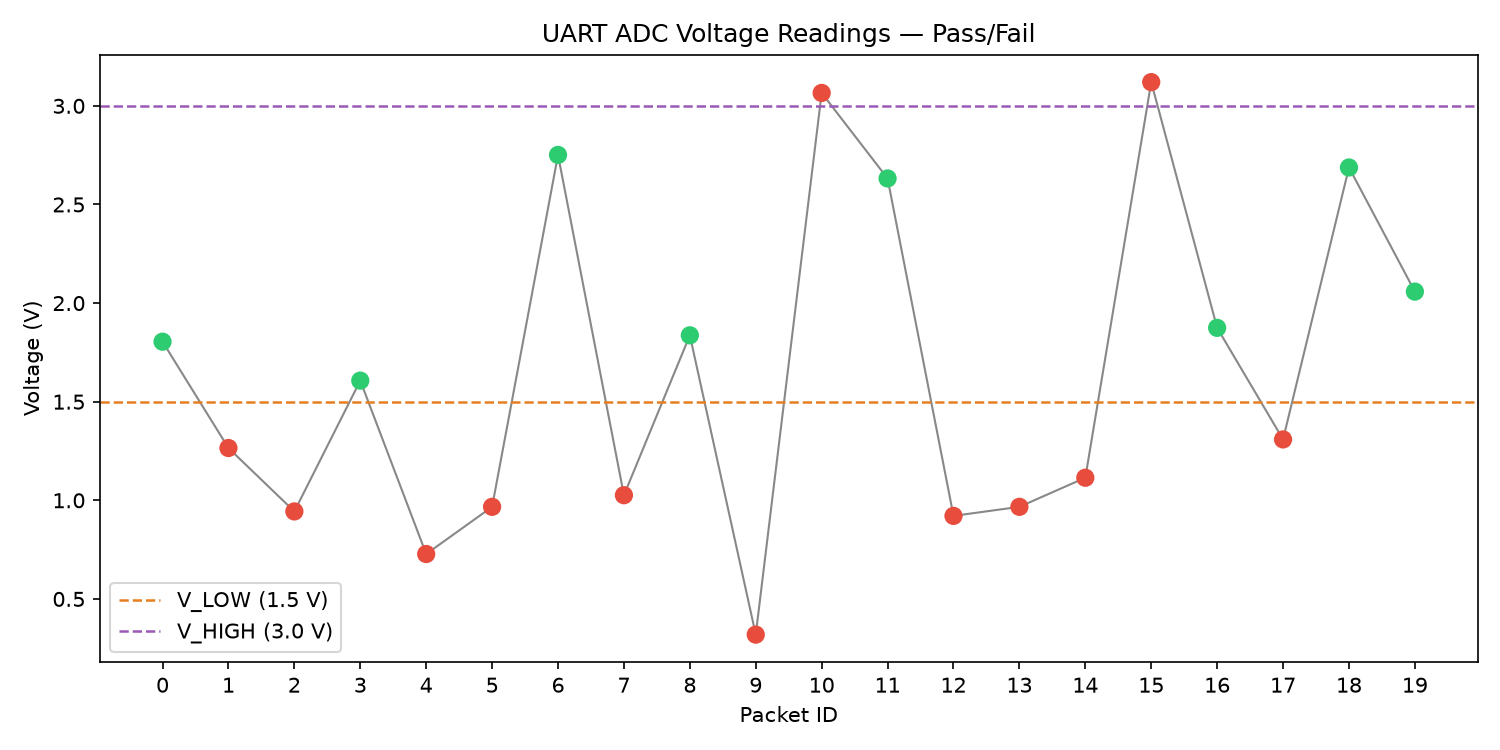
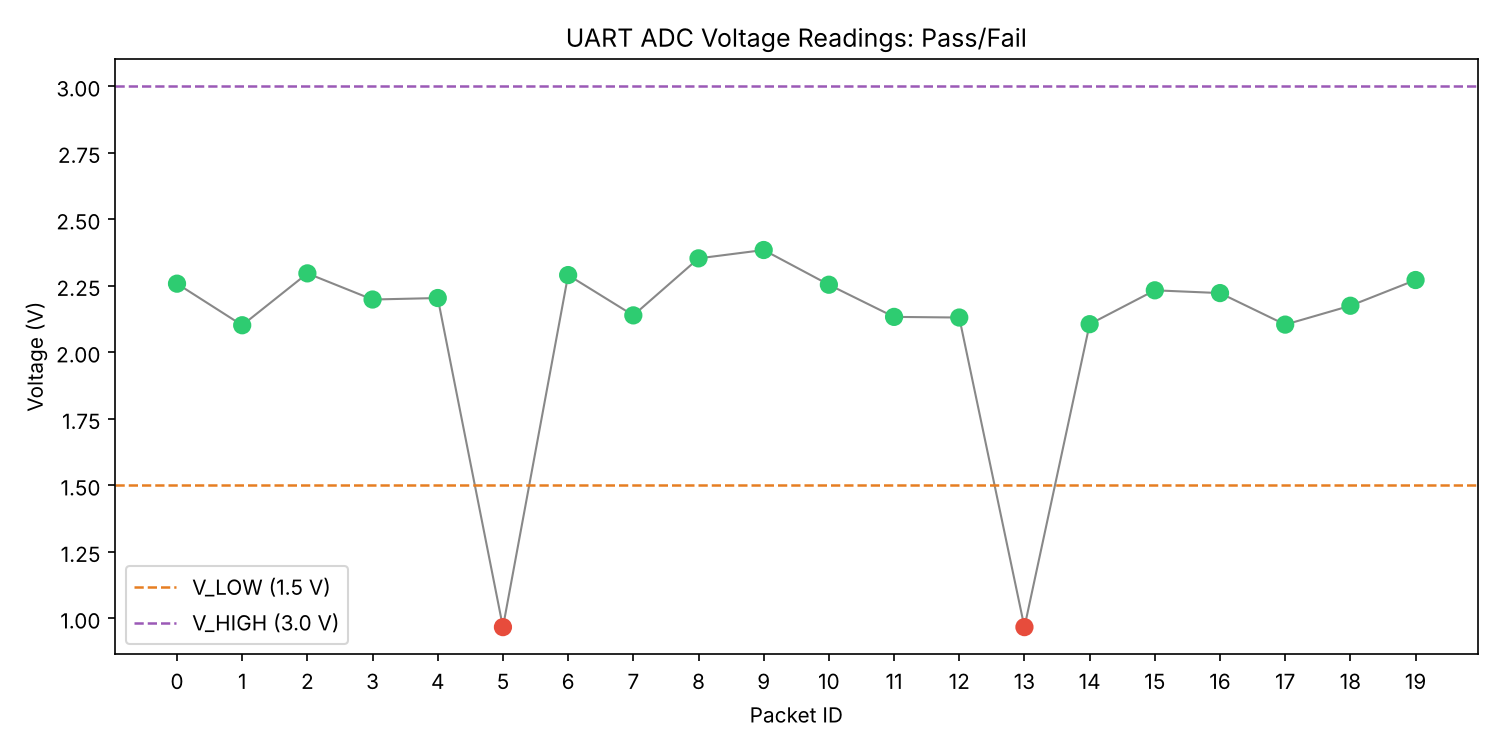
Add README, build step, shared limits, and sturdier logger
- run_test.sh compiles device_sim.c, checks for socat, uses venv only if
  present, waits for the ports, cleans up socat on exit, runs the plot
- device_sim.c sends a nominal 2.25 V reading with noise so only the
  injected faults (packets 5 and 13) fail; checks write() return value
- host_logger.py skips malformed lines, reports missing packet IDs,
  handles zero packets, shortens the idle timeout to 3 s
- Move V_LOW/V_HIGH into limits.py so the logger and plot share them
- Add README, requirements.txt, .gitignore, and sample results.csv

Claude-Session: https://claude.ai/code/session_01CxT4HXFqMADgGH9fB3zzfL

diff --git a/host_logger.py b/host_logger.py
@@ -1,34 +1,53 @@
-import serial
 import csv
+
 import numpy as np
-from datetime import datetime
+import serial
+
+from limits import V_LOW, V_HIGH
 
 PORT = "/tmp/ttyV1"
+# Required by pyserial, but a virtual PTY pair has no real line rate,
+# so this value does not change the timing of the test.
 BAUD = 9600
-TIMEOUT = 15
-V_LOW = 1.5
-V_HIGH = 3.0
+# Stop after this many seconds with no new data
+TIMEOUT = 3
 OUT_FILE = "results.csv"
 
+
+def parse_packet(line):
+	"""Parse 'PKT:05,ADC:1200,VOLT:0.9670' into (pkt_id, adc_raw, voltage).
+	Returns None if the line is malformed."""
+	parts = line.split(",")
+	if len(parts) != 3:
+		return None
+	try:
+		pkt_id = int(parts[0].split(":")[1])
+		adc_raw = int(parts[1].split(":")[1])
+		voltage = float(parts[2].split(":")[1])
+	except (IndexError, ValueError):
+		return None
+	return pkt_id, adc_raw, voltage
+
+
 readings = []
+bad_lines = 0
 
 print(f"Connecting to {PORT}...")
 ser = serial.Serial(PORT, BAUD, timeout=TIMEOUT)
 print("Connected. Waiting for data...\n")
 
 while True:
-	line = ser.readline().decode("utf-8").strip()
+	line = ser.readline().decode("utf-8", errors="replace").strip()
 	if not line:
 		break
 
-	parts = line.split(",")
-	if len(parts) != 3:
+	packet = parse_packet(line)
+	if packet is None:
+		bad_lines += 1
+		print(f"Skipped malformed line: {line!r}")
 		continue
 
-	pkt_id = int(parts[0].split(":")[1])
-	adc_raw = int(parts[1].split(":")[1])
-	voltage = float(parts[2].split(":")[1])
-
+	pkt_id, adc_raw, voltage = packet
 	result = "PASS" if V_LOW <= voltage <= V_HIGH else "FAIL"
 
 	readings.append({
@@ -42,20 +61,31 @@ while True:
 
 ser.close()
 
+if not readings:
+	print("No packets received. Check that device_sim ran and the ports match.")
+	raise SystemExit(1)
+
 voltages = np.array([r["voltage"] for r in readings])
 failures = [r for r in readings if r["result"] == "FAIL"]
 
+# Packet IDs should run 0, 1, 2, ... with no gaps
+expected_ids = set(range(max(r["pkt_id"] for r in readings) + 1))
+missing = sorted(expected_ids - {r["pkt_id"] for r in readings})
+
 print(f"\n--- Summary ---")
+print(f"Limits        : {V_LOW} to {V_HIGH} V")
 print(f"Total packets : {len(readings)}")
 print(f"Pass          : {len(readings) - len(failures)}")
 print(f"Fail          : {len(failures)}")
+print(f"Malformed     : {bad_lines}")
+print(f"Missing IDs   : {missing if missing else 'none'}")
 print(f"Min voltage   : {np.min(voltages):.4f} V")
 print(f"Max voltage   : {np.max(voltages):.4f} V")
 print(f"Mean voltage  : {np.mean(voltages):.4f} V")
 print(f"Std dev       : {np.std(voltages):.4f} V")
 
 with open(OUT_FILE, "w", newline="") as f:
-	writer = csv.writer(f)
+	writer = csv.writer(f, lineterminator="\n")
 	writer.writerow(["pkt_id", "adc_raw", "voltage_V", "result"])
 	for r in readings:
 		writer.writerow([r["pkt_id"], r["adc_raw"], r["voltage"], r["result"]])

diff --git a/device_sim.c b/device_sim.c
@@ -7,12 +7,26 @@
 
 #define PORT "/tmp/ttyV0"
 #define NUM_PACKETS 20
-#define BAUD_DELAY 100000
+#define PACKET_INTERVAL_US 100000  /* 100 ms between packets */
+
+#define ADC_MAX 4095
+#define VREF 3.3f
+
+/* Normal readings: about 2.25 V plus up to +/-0.16 V of noise,
+   which stays inside the host's 1.5 to 3.0 V limits. */
+#define ADC_NOMINAL 2792
+#define ADC_NOISE 200
+
+/* Fault injection: these packets send a low reading, so the host
+   should report exactly these two packets as FAIL. */
+#define FAULT_PKT_A 5
+#define FAULT_PKT_B 13
+#define FAULT_ADC 1200  /* 1200 * 3.3 / 4095 = 0.967 V, below V_LOW */
 
 int main(void) {
 	int fd = open(PORT, O_WRONLY);
 	if (fd < 0) {
-		perror("open");
+		perror("open " PORT);
 		return 1;
 	}
 
@@ -21,22 +35,26 @@ int main(void) {
 	srand(time(NULL));
 
 	for (int i = 0; i < NUM_PACKETS; i++) {
-		int adc_count = (int)(rand() % 4096);
+		int adc_count = ADC_NOMINAL + (rand() % (2 * ADC_NOISE + 1)) - ADC_NOISE;
 
-		if (i == 5 || i == 13)
-			adc_count = 1200;
+		if (i == FAULT_PKT_A || i == FAULT_PKT_B)
+			adc_count = FAULT_ADC;
 
-		float voltage = adc_count * (3.3f / 4095.0f);
+		float voltage = adc_count * (VREF / ADC_MAX);
 
 		char packet[64];
-		snprintf(packet, sizeof(packet), "PKT:%02d,ADC:%04d,VOLT:%.4f\n", i, adc_count, voltage);
-		write(fd, packet, strlen(packet));
+		int len = snprintf(packet, sizeof(packet), "PKT:%02d,ADC:%04d,VOLT:%.4f\n", i, adc_count, voltage);
 
-		usleep(BAUD_DELAY);
+		if (write(fd, packet, len) != len) {
+			perror("write");
+			close(fd);
+			return 1;
+		}
+
+		usleep(PACKET_INTERVAL_US);
 	}
 
 	close(fd);
 	printf("Transmission complete.\n");
 	return 0;
-
 }

diff --git a/plot_results.py b/plot_results.py
@@ -1,7 +1,9 @@
 import csv
 import matplotlib
-matplotlib.use("Agg")   # no display needed — saves to file
+matplotlib.use("Agg")   # no display needed, saves to file
 import matplotlib.pyplot as plt
+
+from limits import V_LOW, V_HIGH
 
 pkt_ids  = []
 voltages = []
@@ -21,12 +23,12 @@ fig, ax = plt.subplots(figsize=(10, 5))
 ax.plot(pkt_ids, voltages, color="#888888", linewidth=1, zorder=1)
 ax.scatter(pkt_ids, voltages, c=colors, s=60, zorder=2)
 
-ax.axhline(1.5, color="#e67e22", linewidth=1.2, linestyle="--", label="V_LOW (1.5 V)")
-ax.axhline(3.0, color="#9b59b6", linewidth=1.2, linestyle="--", label="V_HIGH (3.0 V)")
+ax.axhline(V_LOW, color="#e67e22", linewidth=1.2, linestyle="--", label=f"V_LOW ({V_LOW} V)")
+ax.axhline(V_HIGH, color="#9b59b6", linewidth=1.2, linestyle="--", label=f"V_HIGH ({V_HIGH} V)")
 
 ax.set_xlabel("Packet ID")
 ax.set_ylabel("Voltage (V)")
-ax.set_title("UART ADC Voltage Readings — Pass/Fail")
+ax.set_title("UART ADC Voltage Readings: Pass/Fail")
 ax.legend()
 ax.set_xticks(pkt_ids)
 

diff --git a/limits.py b/limits.py
@@ -1,0 +1,3 @@
+# Pass/fail voltage limits shared by host_logger.py and plot_results.py
+V_LOW = 1.5   # volts
+V_HIGH = 3.0  # volts

diff --git a/README.md b/README.md
@@ -1,0 +1,90 @@
+# UART Test
+
+Simulates a device sending ADC readings over a serial (UART) link and an automated host-side test that receives, checks, and logs them.
+
+A C program plays the device firmware. A Python script plays the test station. They talk over a pair of virtual serial ports, so no hardware is needed.
+
+![Voltage plot](voltage_plot.png)
+
+## How it works
+
+```
+device_sim (C)  -->  /tmp/ttyV0 ==socat== /tmp/ttyV1  -->  host_logger.py (Python)
+```
+
+1. `socat` creates two linked virtual serial ports. Bytes written to one come out of the other.
+2. `device_sim.c` sends 20 packets, 100 ms apart, in this format:
+   ```
+   PKT:05,ADC:1200,VOLT:0.9670
+   ```
+   Normal readings are about 2.25 V with a little random noise. Packets 5 and 13 are forced to a low reading (ADC 1200, 0.967 V) to inject known faults.
+3. `host_logger.py` reads each line with pyserial, parses it, and marks it PASS if the voltage is between 1.5 V and 3.0 V. It skips malformed lines, checks for missing packet IDs, prints a summary, and writes `results.csv`.
+4. `plot_results.py` plots the readings with passing packets in green and failures in red.
+
+A correct run reports exactly 2 failures, at packets 5 and 13.
+
+## Files
+
+- `device_sim.c`: device simulator (C)
+- `host_logger.py`: host test and logger (Python)
+- `plot_results.py`: plots `results.csv` to `voltage_plot.png`
+- `limits.py`: pass/fail limits used by both Python scripts
+- `run_test.sh`: runs the whole test
+- `results.csv`, `voltage_plot.png`: output from a sample run
+
+## Setup
+
+Needs `gcc`, `socat`, and Python 3.
+
+```
+# macOS
+brew install socat
+
+# Ubuntu / Debian
+sudo apt install socat
+```
+
+```
+python3 -m venv venv
+source venv/bin/activate
+pip install -r requirements.txt
+```
+
+## Usage
+
+```
+./run_test.sh
+```
+
+The script compiles `device_sim.c` if needed, starts `socat`, runs the logger and simulator, then makes the plot. It uses `venv/` if it exists.
+
+To change the limits, edit `limits.py`.
+
+## Example output
+
+```
+PKT 00 | ADC 2802 | 2.2580 V | PASS
+PKT 01 | ADC 2608 | 2.1017 V | PASS
+...
+PKT 05 | ADC 1200 | 0.9670 V | FAIL
+...
+PKT 13 | ADC 1200 | 0.9670 V | FAIL
+...
+
+--- Summary ---
+Limits        : 1.5 to 3.0 V
+Total packets : 20
+Pass          : 18
+Fail          : 2
+Malformed     : 0
+Missing IDs   : none
+Min voltage   : 0.9670 V
+Max voltage   : 2.3845 V
+Mean voltage  : 2.0895 V
+Std dev       : 0.3825 V
+```
+
+## Notes
+
+- The baud rate in `host_logger.py` is required by pyserial but has no effect on virtual ports. On real hardware it must match the device.
+- The logger stops after 3 seconds with no new data.
